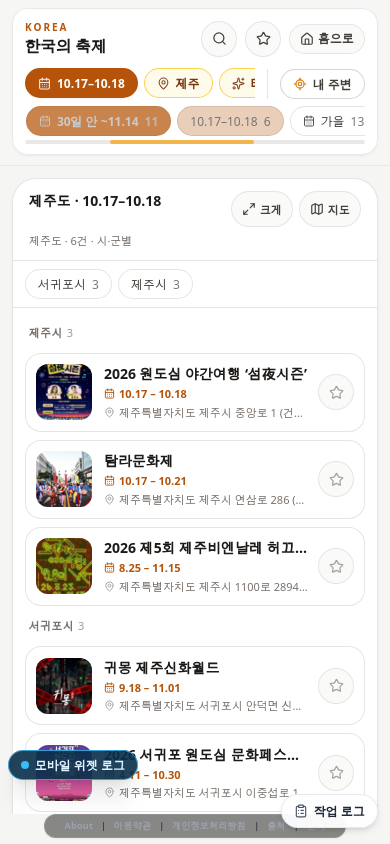
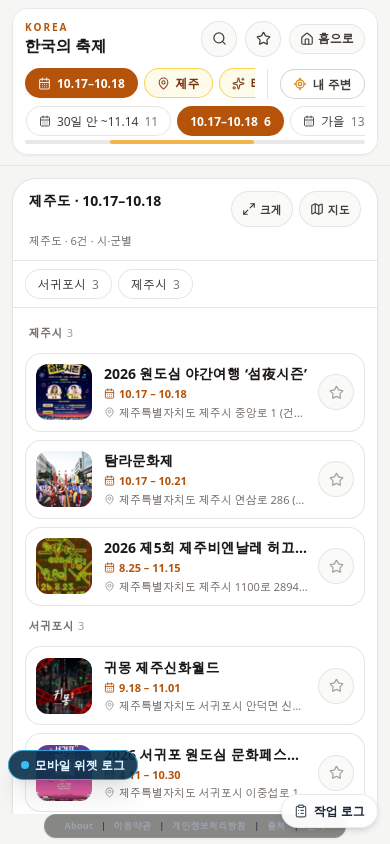
fix(korea): 기간 칩 active 색 즉시 반영 · QA 캡처 paint 대기
transition-all 때문에 class는 바뀌었지만 WebKit 스크린샷이 ~150ms 동안
이전 fill을 그려 Gangneung/Jeju custom-range가 뒤바뀌어 보였다.
transition-none + computed background 대기로 재캡처.

Changed region(s): [[0.0615, 0.1232, 0.7385, 0.1848], [0.8308, 0.1232, 0.8615, 0.154]]

diff --git a/e2e/korea-festival-date-chip.spec.js b/e2e/korea-festival-date-chip.spec.js
@@ -1,5 +1,18 @@
 import { test, expect } from '@playwright/test';
 
+const FILTER_CHIP_ACTIVE_BG = 'rgb(180, 83, 9)';
+
+async function expectPeriodChipPainted(page, activeId, idleId) {
+  await expect(page.locator(`[data-period-id="${activeId}"]`)).toHaveCSS(
+    'background-color',
+    FILTER_CHIP_ACTIVE_BG,
+  );
+  await expect(page.locator(`[data-period-id="${idleId}"]`)).toHaveCSS(
+    'background-color',
+    'rgb(255, 255, 255)',
+  );
+}
+
 const FIXTURE = [
   {
     contentId: '1001',
@@ -163,8 +176,7 @@ test.describe('Korea festival date chips', () => {
     expect(count).toBeGreaterThan(0);
     await expect(listCards(page).filter({ hasText: '강릉 주말 축제' })).toHaveCount(1);
     const window30Chip = page.locator('[data-period-id="window30"]');
-    await expect(dateChip).toHaveClass(/bg-amber-700/);
-    await expect(window30Chip).toHaveClass(/bg-white/);
+    await expectPeriodChipPainted(page, 'date', 'window30');
     await expect(window30Chip).toHaveAttribute('aria-pressed', 'false');
 
     await dateChip.click();
@@ -196,10 +208,9 @@ test.describe('Korea festival date chips', () => {
     await sheet.getByRole('button', { name: '이 기간 보기' }).click();
     const dateChip = page.locator('[data-period-id="date"]');
     await expect(dateChip).toHaveAttribute('aria-pressed', 'true');
-    await expect(dateChip).toHaveClass(/bg-amber-700/);
+    await expectPeriodChipPainted(page, 'date', 'window30');
     await expect(dateChip).toContainText('10.17\u201310.18');
     await expect(window30Chip).toHaveAttribute('aria-pressed', 'false');
-    await expect(window30Chip).toHaveClass(/bg-white/);
   });
 
   test('switching back to 30-day clears custom range label on the date chip', async ({
@@ -215,8 +226,7 @@ test.describe('Korea festival date chips', () => {
     const window30Chip = page.locator('[data-period-id="window30"]');
     await expect(dateChip).toContainText('10.17\u201310.18');
     await window30Chip.click();
-    await expect(window30Chip).toHaveClass(/bg-amber-700/);
-    await expect(dateChip).toHaveClass(/bg-white/);
+    await expectPeriodChipPainted(page, 'window30', 'date');
     await expect(dateChip).not.toContainText('10.17');
     await expect(dateChip).toContainText('날짜');
   });

diff --git a/src/pages/Korea/koreaHubFilterChipStyles.js b/src/pages/Korea/koreaHubFilterChipStyles.js
@@ -8,9 +8,12 @@ export const KOREA_FILTER_CHIP_ACTIVE =
 export const KOREA_FILTER_CHIP_IDLE =
   'bg-white text-stone-700 border-stone-200 hover:bg-stone-50 hover:border-stone-300';
 
+/** Tailwind amber-700 fill — used to wait for paint after class swap (no color transition). */
+export const KOREA_FILTER_CHIP_ACTIVE_BG_RGB = 'rgb(180, 83, 9)';
+
 /** Detail filter chips (time / region / theme rows on /korea). */
 export function koreaFilterChipClass(active) {
-  return `flex items-center gap-1.5 px-3 py-1.5 rounded-full whitespace-nowrap text-xs transition-all border shrink-0 ${
+  return `flex items-center gap-1.5 px-3 py-1.5 rounded-full whitespace-nowrap text-xs border shrink-0 transition-none ${
     active ? KOREA_FILTER_CHIP_ACTIVE : KOREA_FILTER_CHIP_IDLE
   }`;
 }

diff --git a/docs/qa/date-chip-real/NOTES.md b/docs/qa/date-chip-real/NOTES.md
@@ -5,3 +5,5 @@
 - seoul custom range 20261017–20261018
 - gangneung custom range 20261017–20261018
 - jeju custom range 20261017–20261018
+- Root cause (Gangneung/Jeju custom-range QA): CSS `transition-all` on filter chips — class/aria updated immediately but painted fill lagged ~150ms; capture script now waits on computed background. Chips use `transition-none` for instant active fill.
+- Recaptured gangneung-custom-range.png, jeju-custom-range.png after fix (WebKit 390).
